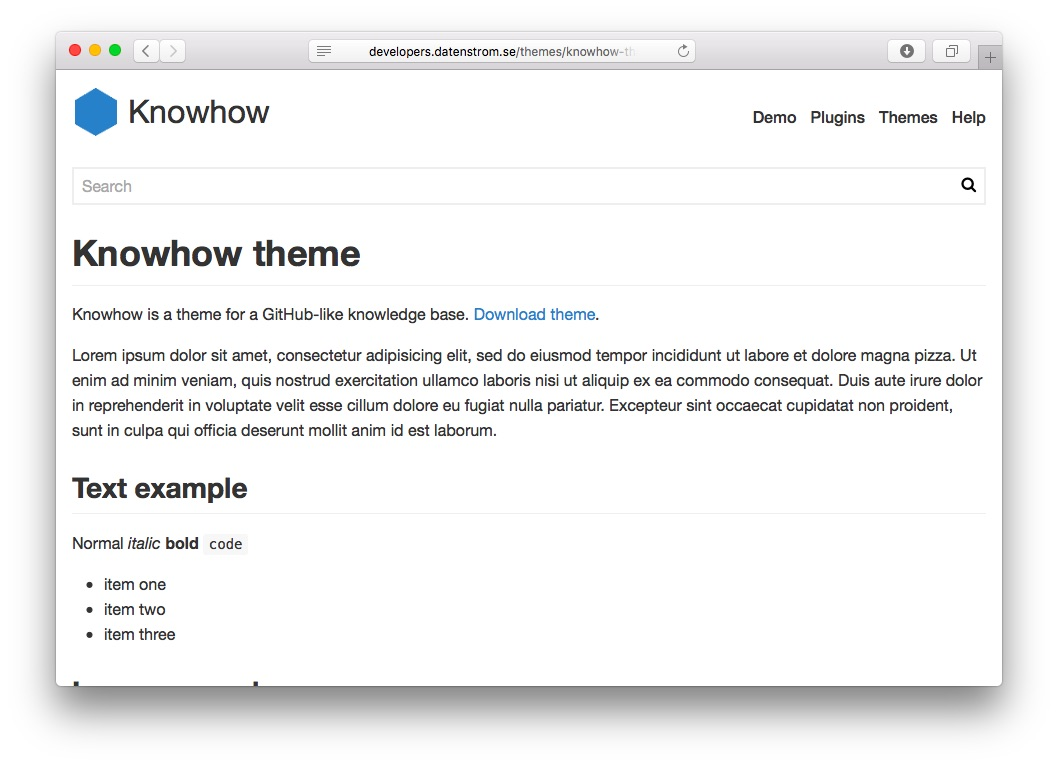
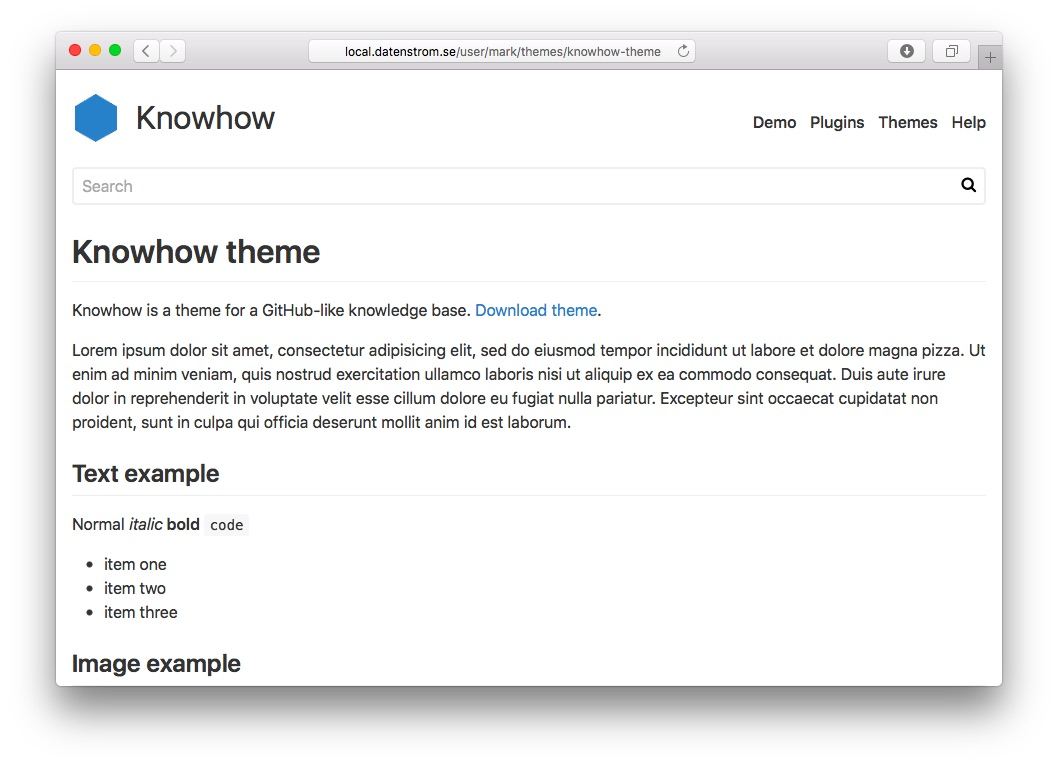
Developers kit update

diff --git a/system/themes/knowhow.css b/system/themes/knowhow.css
@@ -1,19 +1,19 @@
 /* Theme: Knowhow theme */
-/* Version: 0.6.7 */
+/* Version: 0.6.8 */
 /* Designer: Mark Mayberg */
 
 html, body, div, form, pre, span, tr, th, td { margin:0; padding:0; border:0; vertical-align:baseline; }
 body {
 	margin:1em;
 	background-color:#fff; color:#333;
-	font-family:"Helvetica Neue",Helvetica,sans-serif;
+	font-family:-apple-system,"Segoe UI",Roboto,Helvetica,sans-serif;
 	font-size:1em;
 	font-weight:400;
 	line-height:1.6;
 }
 h1, h2, h3, h4, h5, h6 { color:#333; font-weight:normal; }
 hr { height:1px; background:#ddd; border:0; }
-strong { font-weight:bold; }
+strong { font-weight:600; }
 code { font-size:1.1em; }
 a { color:#4183c4; }
 a:hover { color:#4183c4; text-decoration:underline; }
@@ -70,7 +70,7 @@ a, img { border:none; text-decoration:none; }
 
 .navigation-banner { clear:both; }
 .navigation { display:block; float:right; }
-.navigation { margin-top:0.95em; margin-bottom:1.5em; line-height:2em; font-weight:500; }
+.navigation { margin-top:1.25em; margin-bottom:1.2em; line-height:2em; font-weight:500; }
 .navigation a { color:#333; text-decoration:none; padding:0 0.3em; }
 .navigation a:hover { color:#4183c4; text-decoration:none; }
 .navigation ul { margin:0 -0.3em; padding:0; list-style:none; }
@@ -109,7 +109,7 @@ a, img { border:none; text-decoration:none; }
 .content h1, h2, h3, h4, h5, h6 { color:#333; }
 .content a { color:#4183c4; }
 .content a:hover { color:#4183c4; text-decoration:underline; }
-.content { font-size:16px;line-height:1.6;word-wrap:break-word}.content>*:first-child{margin-top:0 !important}.content>*:last-child{margin-bottom:0 !important}.content .absent{color:#c00}.content .anchor{position:absolute;top:0;bottom:0;left:0;display:block;padding-right:6px;padding-left:30px;margin-left:-30px}.content .anchor:focus{outline:none}.content h1,.content h2,.content h3,.content h4,.content h5,.content h6{position:relative;margin-top:1em;font-weight:bold;line-height:1.4}.content h1 .octicon-link,.content h2 .octicon-link,.content h3 .octicon-link,.content h4 .octicon-link,.content h5 .octicon-link,.content h6 .octicon-link{display:none;color:#000;vertical-align:middle}.content h1:hover .anchor,.content h2:hover .anchor,.content h3:hover .anchor,.content h4:hover .anchor,.content h5:hover .anchor,.content h6:hover .anchor{height:1em;padding-left:8px;margin-left:-30px;line-height:1;text-decoration:none}.content h1:hover .anchor .octicon-link,.content h2:hover .anchor .octicon-link,.content h3:hover .anchor .octicon-link,.content h4:hover .anchor .octicon-link,.content h5:hover .anchor .octicon-link,.content h6:hover .anchor .octicon-link{display:inline-block}.content h1 tt,.content h1 code,.content h2 tt,.content h2 code,.content h3 tt,.content h3 code,.content h4 tt,.content h4 code,.content h5 tt,.content h5 code,.content h6 tt,.content h6 code{font-size:inherit}.content h1{padding-bottom:0.3em;margin-bottom:16px;font-size:2.25em;line-height:1.2;border-bottom:1px solid #eee}.content h2{padding-bottom:0.3em;margin-bottom:16px;font-size:1.75em;line-height:1.225;border-bottom:1px solid #eee}.content h3{margin-bottom:0;font-size:1.5em;line-height:1.43}.content h4{margin-bottom:0.1em;font-size:1.25em}.content h5{margin-bottom:0.2em;font-size:1em}.content h6{margin-bottom:0.2em;font-size:1em;color:#777}.content p,.content blockquote,.content ul,.content ol,.content dl,.content table,.content pre{margin-top:16px;margin-bottom:16px}.content hr{height:4px;padding:0;margin:16px 0;background-color:#e7e7e7;border:0 none}.content ul,.content ol{padding-left:2em}.content ul.no-list,.content ol.no-list{padding:0;list-style-type:none}.content ul ul,.content ul ol,.content ol ol,.content ol ul{margin-top:0;margin-bottom:0}.content dl{padding:0}.content dl dt{padding:0;margin-top:16px;font-size:1em;font-style:italic;font-weight:bold}.content dl dd{padding:0 16px;margin-bottom:16px}.content blockquote{padding:0 15px;color:#777;border-left:4px solid #ddd}.content blockquote>:first-child{margin-top:0}.content blockquote>:last-child{margin-bottom:0}.content table{display:block;width:100%;overflow:auto}.content table th{font-weight:bold}.content table th,.content table td{padding:6px 13px;border:1px solid #ddd}.content table tr{background-color:#fff;border-top:1px solid #ccc}.content table tr:nth-child(2n){background-color:#f8f8f8}.content img{max-width:100%;-moz-box-sizing:border-box;box-sizing:border-box}.content span.frame{display:block;overflow:hidden}.content span.frame>span{display:block;float:left;width:auto;padding:7px;margin:13px 0 0;overflow:hidden;border:1px solid #ddd}.content span.frame span img{display:block;float:left}.content span.frame span span{display:block;padding:5px 0 0;clear:both;color:#333}.content span.align-center{display:block;overflow:hidden;clear:both}.content span.align-center>span{display:block;margin:13px auto 0;overflow:hidden;text-align:center}.content span.align-center span img{margin:0 auto;text-align:center}.content span.align-right{display:block;overflow:hidden;clear:both}.content span.align-right>span{display:block;margin:13px 0 0;overflow:hidden;text-align:right}.content span.align-right span img{margin:0;text-align:right}.content span.float-left{display:block;float:left;margin-right:13px;overflow:hidden}.content span.float-left span{margin:13px 0 0}.content span.float-right{display:block;float:right;margin-left:13px;overflow:hidden}.content span.float-right>span{display:block;margin:13px auto 0;overflow:hidden;text-align:right}.content code,.content tt{padding:0;padding-top:0.2em;padding-bottom:0.2em;margin:0;font-size:85%;background-color:#f7f7f7;border-radius:3px}.content code:before,.content code:after,.content tt:before,.content tt:after{letter-spacing:-0.2em;content:"\00a0"}.content code br,.content tt br{display:none}.content del code{text-decoration:inherit;vertical-align:text-top}.content pre>code{padding:0;margin:0;font-size:100%;white-space:pre;background:transparent;border:0}.content .highlight pre,.content pre{padding:16px;overflow:auto;font-size:85%;line-height:1.45;background-color:#f7f7f7;border-radius:3px}.content pre{word-wrap:normal}.content pre code,.content pre tt{display:inline;max-width:initial;padding:0;margin:0;overflow:initial;line-height:inherit;word-wrap:normal;background-color:transparent;border:0}.content pre code:before,.content pre code:after,.content pre tt:before,.content pre tt:after{content:normal}
+.content { font-size:16px;line-height:1.5;word-wrap:break-word}.content>*:first-child{margin-top:0 !important}.content>*:last-child{margin-bottom:0 !important}.content .absent{color:#c00}.content .anchor{position:absolute;top:0;bottom:0;left:0;display:block;padding-right:6px;padding-left:30px;margin-left:-30px}.content .anchor:focus{outline:none}.content h1,.content h2,.content h3,.content h4,.content h5,.content h6{position:relative;margin-top:24px;margin-bottom:16px;font-weight:600;line-height:1.25}.content h1 .octicon-link,.content h2 .octicon-link,.content h3 .octicon-link,.content h4 .octicon-link,.content h5 .octicon-link,.content h6 .octicon-link{display:none;color:#000;vertical-align:middle}.content h1:hover .anchor,.content h2:hover .anchor,.content h3:hover .anchor,.content h4:hover .anchor,.content h5:hover .anchor,.content h6:hover .anchor{height:1em;padding-left:8px;margin-left:-30px;line-height:1;text-decoration:none}.content h1:hover .anchor .octicon-link,.content h2:hover .anchor .octicon-link,.content h3:hover .anchor .octicon-link,.content h4:hover .anchor .octicon-link,.content h5:hover .anchor .octicon-link,.content h6:hover .anchor .octicon-link{display:inline-block}.content h1 tt,.content h1 code,.content h2 tt,.content h2 code,.content h3 tt,.content h3 code,.content h4 tt,.content h4 code,.content h5 tt,.content h5 code,.content h6 tt,.content h6 code{font-size:inherit}.content h1{padding-bottom:0.3em;font-size:2em;border-bottom:1px solid #eee}.content h2{padding-bottom:0.3em;font-size:1.5em;border-bottom:1px solid #eee}.content h3{font-size:1.25em;}.content h4{font-size:1em}.content h5{font-size:0.875em}.content h6{font-size:85em;color:#777}.content p,.content blockquote,.content ul,.content ol,.content dl,.content table,.content pre{margin-top:16px;margin-bottom:16px}.content hr{height:4px;padding:0;margin:16px 0;background-color:#e7e7e7;border:0 none}.content ul,.content ol{padding-left:2em}.content ul.no-list,.content ol.no-list{padding:0;list-style-type:none}.content ul ul,.content ul ol,.content ol ol,.content ol ul{margin-top:0;margin-bottom:0}.content dl{padding:0}.content dl dt{padding:0;margin-top:16px;font-size:1em;font-style:italic;font-weight:bold}.content dl dd{padding:0 16px;margin-bottom:16px}.content blockquote{padding:0 15px;color:#777;border-left:4px solid #ddd}.content blockquote>:first-child{margin-top:0}.content blockquote>:last-child{margin-bottom:0}.content table{display:block;width:100%;overflow:auto}.content table th{font-weight:bold}.content table th,.content table td{padding:6px 13px;border:1px solid #ddd}.content table tr{background-color:#fff;border-top:1px solid #ccc}.content table tr:nth-child(2n){background-color:#f8f8f8}.content img{max-width:100%;box-sizing:content-box;background-color:#fff}.content span.frame{display:block;overflow:hidden}.content span.frame>span{display:block;float:left;width:auto;padding:7px;margin:13px 0 0;overflow:hidden;border:1px solid #ddd}.content span.frame span img{display:block;float:left}.content span.frame span span{display:block;padding:5px 0 0;clear:both;color:#333}.content span.align-center{display:block;overflow:hidden;clear:both}.content span.align-center>span{display:block;margin:13px auto 0;overflow:hidden;text-align:center}.content span.align-center span img{margin:0 auto;text-align:center}.content span.align-right{display:block;overflow:hidden;clear:both}.content span.align-right>span{display:block;margin:13px 0 0;overflow:hidden;text-align:right}.content span.align-right span img{margin:0;text-align:right}.content span.float-left{display:block;float:left;margin-right:13px;overflow:hidden}.content span.float-left span{margin:13px 0 0}.content span.float-right{display:block;float:right;margin-left:13px;overflow:hidden}.content span.float-right>span{display:block;margin:13px auto 0;overflow:hidden;text-align:right}.content code,.content tt{padding:0;padding-top:0.2em;padding-bottom:0.2em;margin:0;font-size:85%;background-color:#f7f7f7;border-radius:3px}.content code:before,.content code:after,.content tt:before,.content tt:after{letter-spacing:-0.2em;content:"\00a0"}.content code br,.content tt br{display:none}.content del code{text-decoration:inherit;vertical-align:text-top}.content pre>code{padding:0;margin:0;font-size:100%;word-break:normal;white-space:pre;background:transparent;border:0}.content .highlight pre,.content pre{padding:16px;overflow:auto;font-size:85%;line-height:1.45;background-color:#f7f7f7;border-radius:3px}.content pre{word-wrap:normal}.content pre code,.content pre tt{display:inline;max-width:auto;padding:0;margin:0;overflow:visible;line-height:inherit;word-wrap:normal;background-color:transparent;border:0}.content pre code:before,.content pre code:after,.content pre tt:before,.content pre tt:after{content:normal}
 
 /* Forms and buttons */
 
